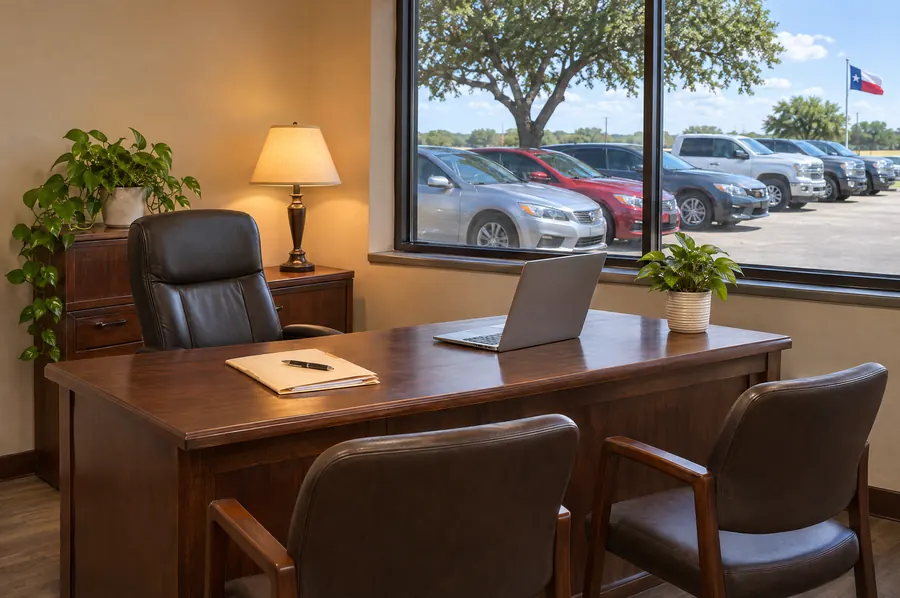
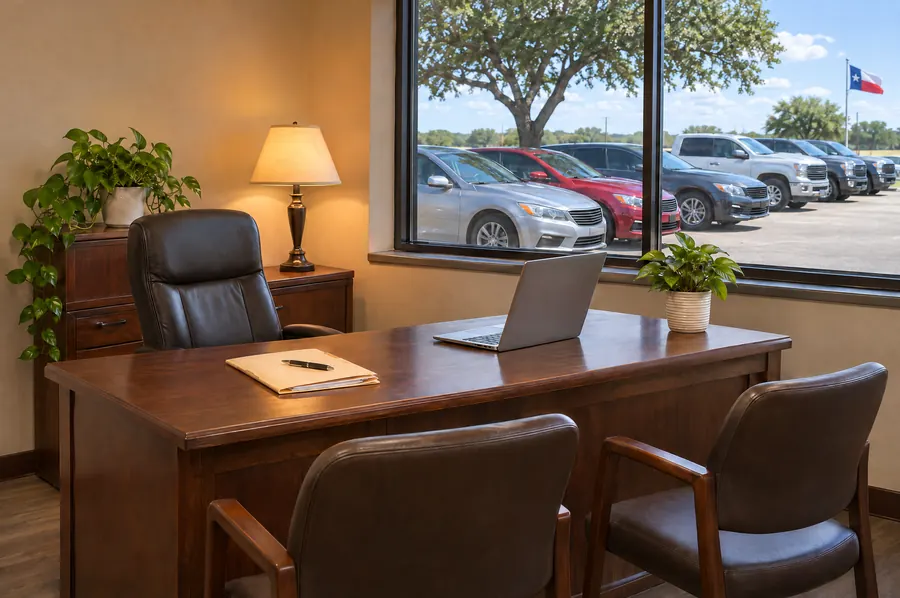
Bramlett: debadge the cars outside the finance office window; brief updated for the photo rebuild

diff --git a/websites/bramlett-motor-co/BRIEF.md b/websites/bramlett-motor-co/BRIEF.md
@@ -28,7 +28,7 @@ Never says: guaranteed approval, everyone approved, no credit check, buy now pay
 - **Type:** Archivo, variable width at ~112%, weight 750, for display headings; Figtree (the CRM's face) for body, 400 to 800.
 - **Rebuild (2026-11-27):** photo-led. Full-bleed photo heroes on every page (`assets/img/*.webp` + `-sm` 900px), each listing has its own photo (`car-<model>.webp`, matching body style and paint, no badges or plates, uncropped 3:2), noted on the page as sample photos. The SVG car art below is retired.
 - **Shape rule:** buttons and inputs 10px radius, cards 16px, chips full pill.
-- **Visuals:** hand-built SVG only. Side-profile vector cars (sedan, SUV, truck, box hatch) tinted per listing, no badges, no logos, no plates (profile view). Hero is the lot at night under bulb strings.
+- **Visuals:** original Higgsfield photos (2026-11-27): one badge-free, plate-free photo per listing in its listed paint, a debadged dusk-lot hero, the lot at night, the finance office, the key handover, a family pickup and a car being prepped. No visible signage or logos.
 - **Motion:** Lenis smooth scroll, GSAP hero parallax, IntersectionObserver reveals, gentle bulb glow. All off under `prefers-reduced-motion`.
 
 ## Pages (5)
@@ -54,11 +54,11 @@ Never says: guaranteed approval, everyone approved, no credit check, buy now pay
 | 2014 Toyota Camry SE | Car | 26-0221 | 151,300 | $8,495 | Burgundy |
 | 2012 Honda Civic LX | Car | 26-0203 | 158,200 | $7,995 | Tan |
 
-Rogue, Soul, Camry and Equinox carry the CRM's stock numbers, miles and prices.
+Soul (#26-0207) and Equinox (#26-0214, $11,995, on hold) match the CRM screens; the other listings are site-only samples.
 
 ## Assets
 - **Logo:** hand-built SVG key-tag mark (gold tag, graphite "B") `assets/logo-mark.svg` + HTML wordmark.
-- **Art:** inline SVG car symbols and the hero lot scene. No photography, no paid generation, no downloads.
+- **Art:** photos in `assets/img/` (WebP with -sm variants). The old SVG car art is retired.
 
 ## Known gaps / decisions
 - Phone is the program's 123-456-7890, not the CRM's (972) 555-0148 lot line.
